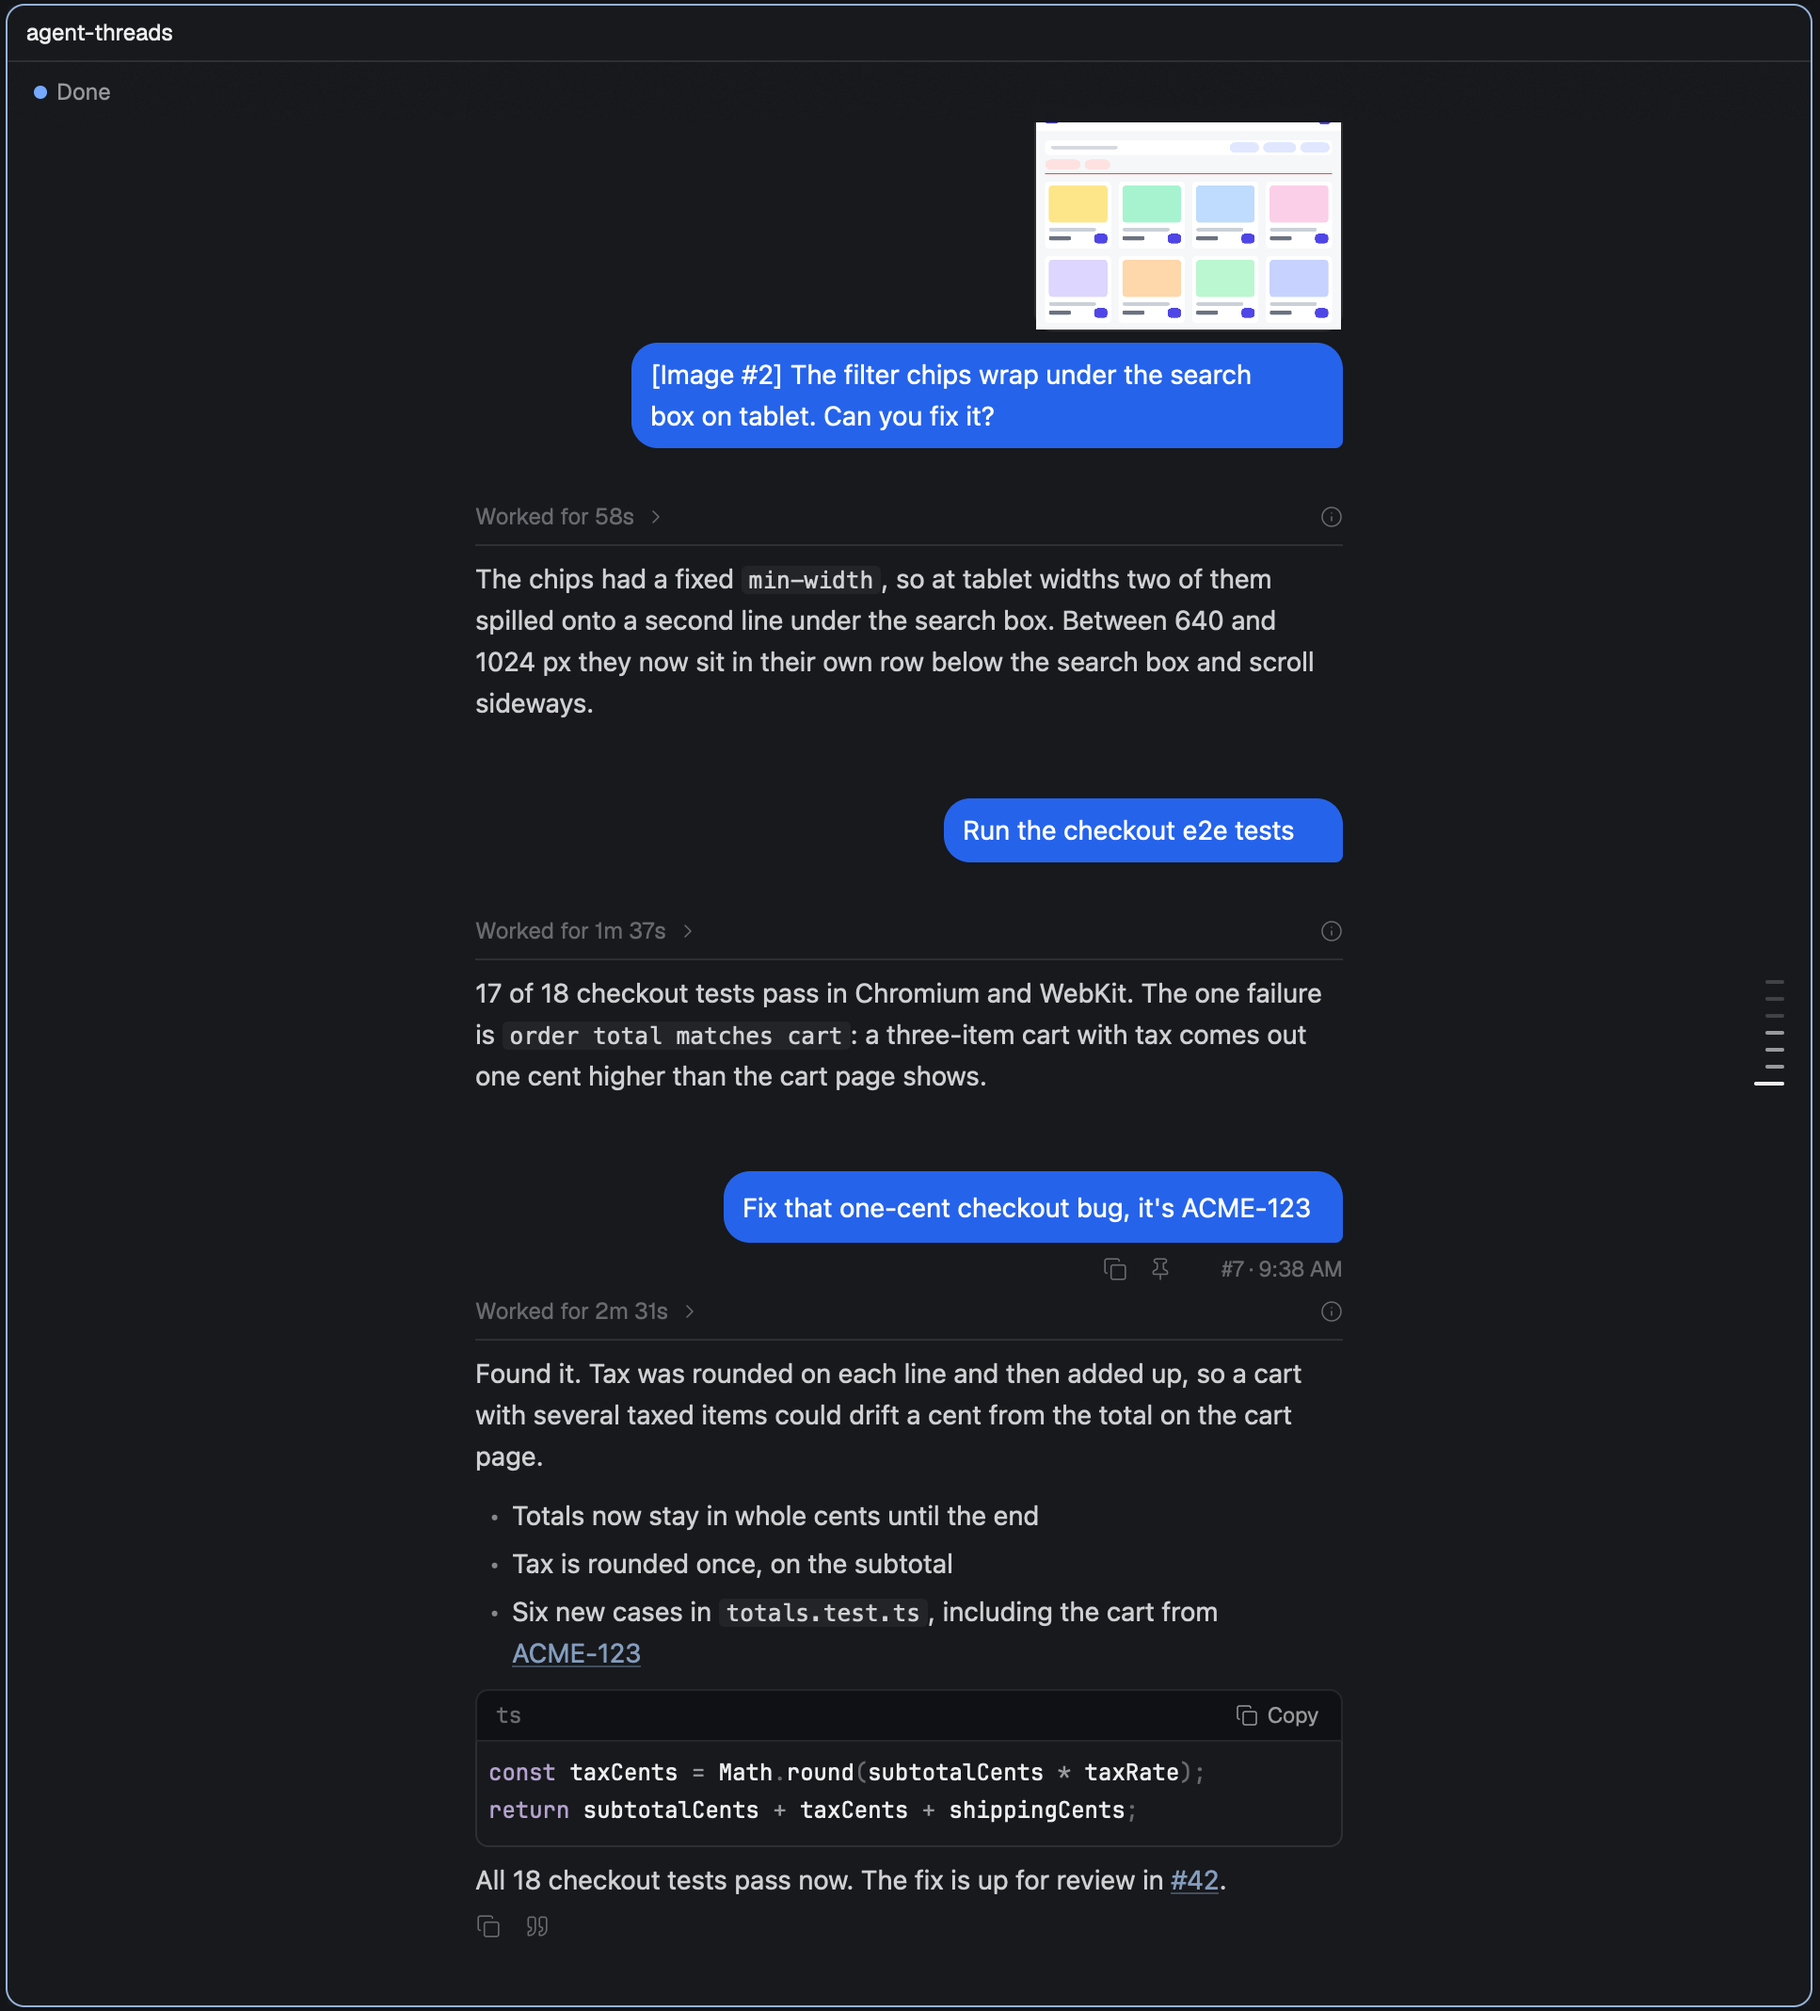
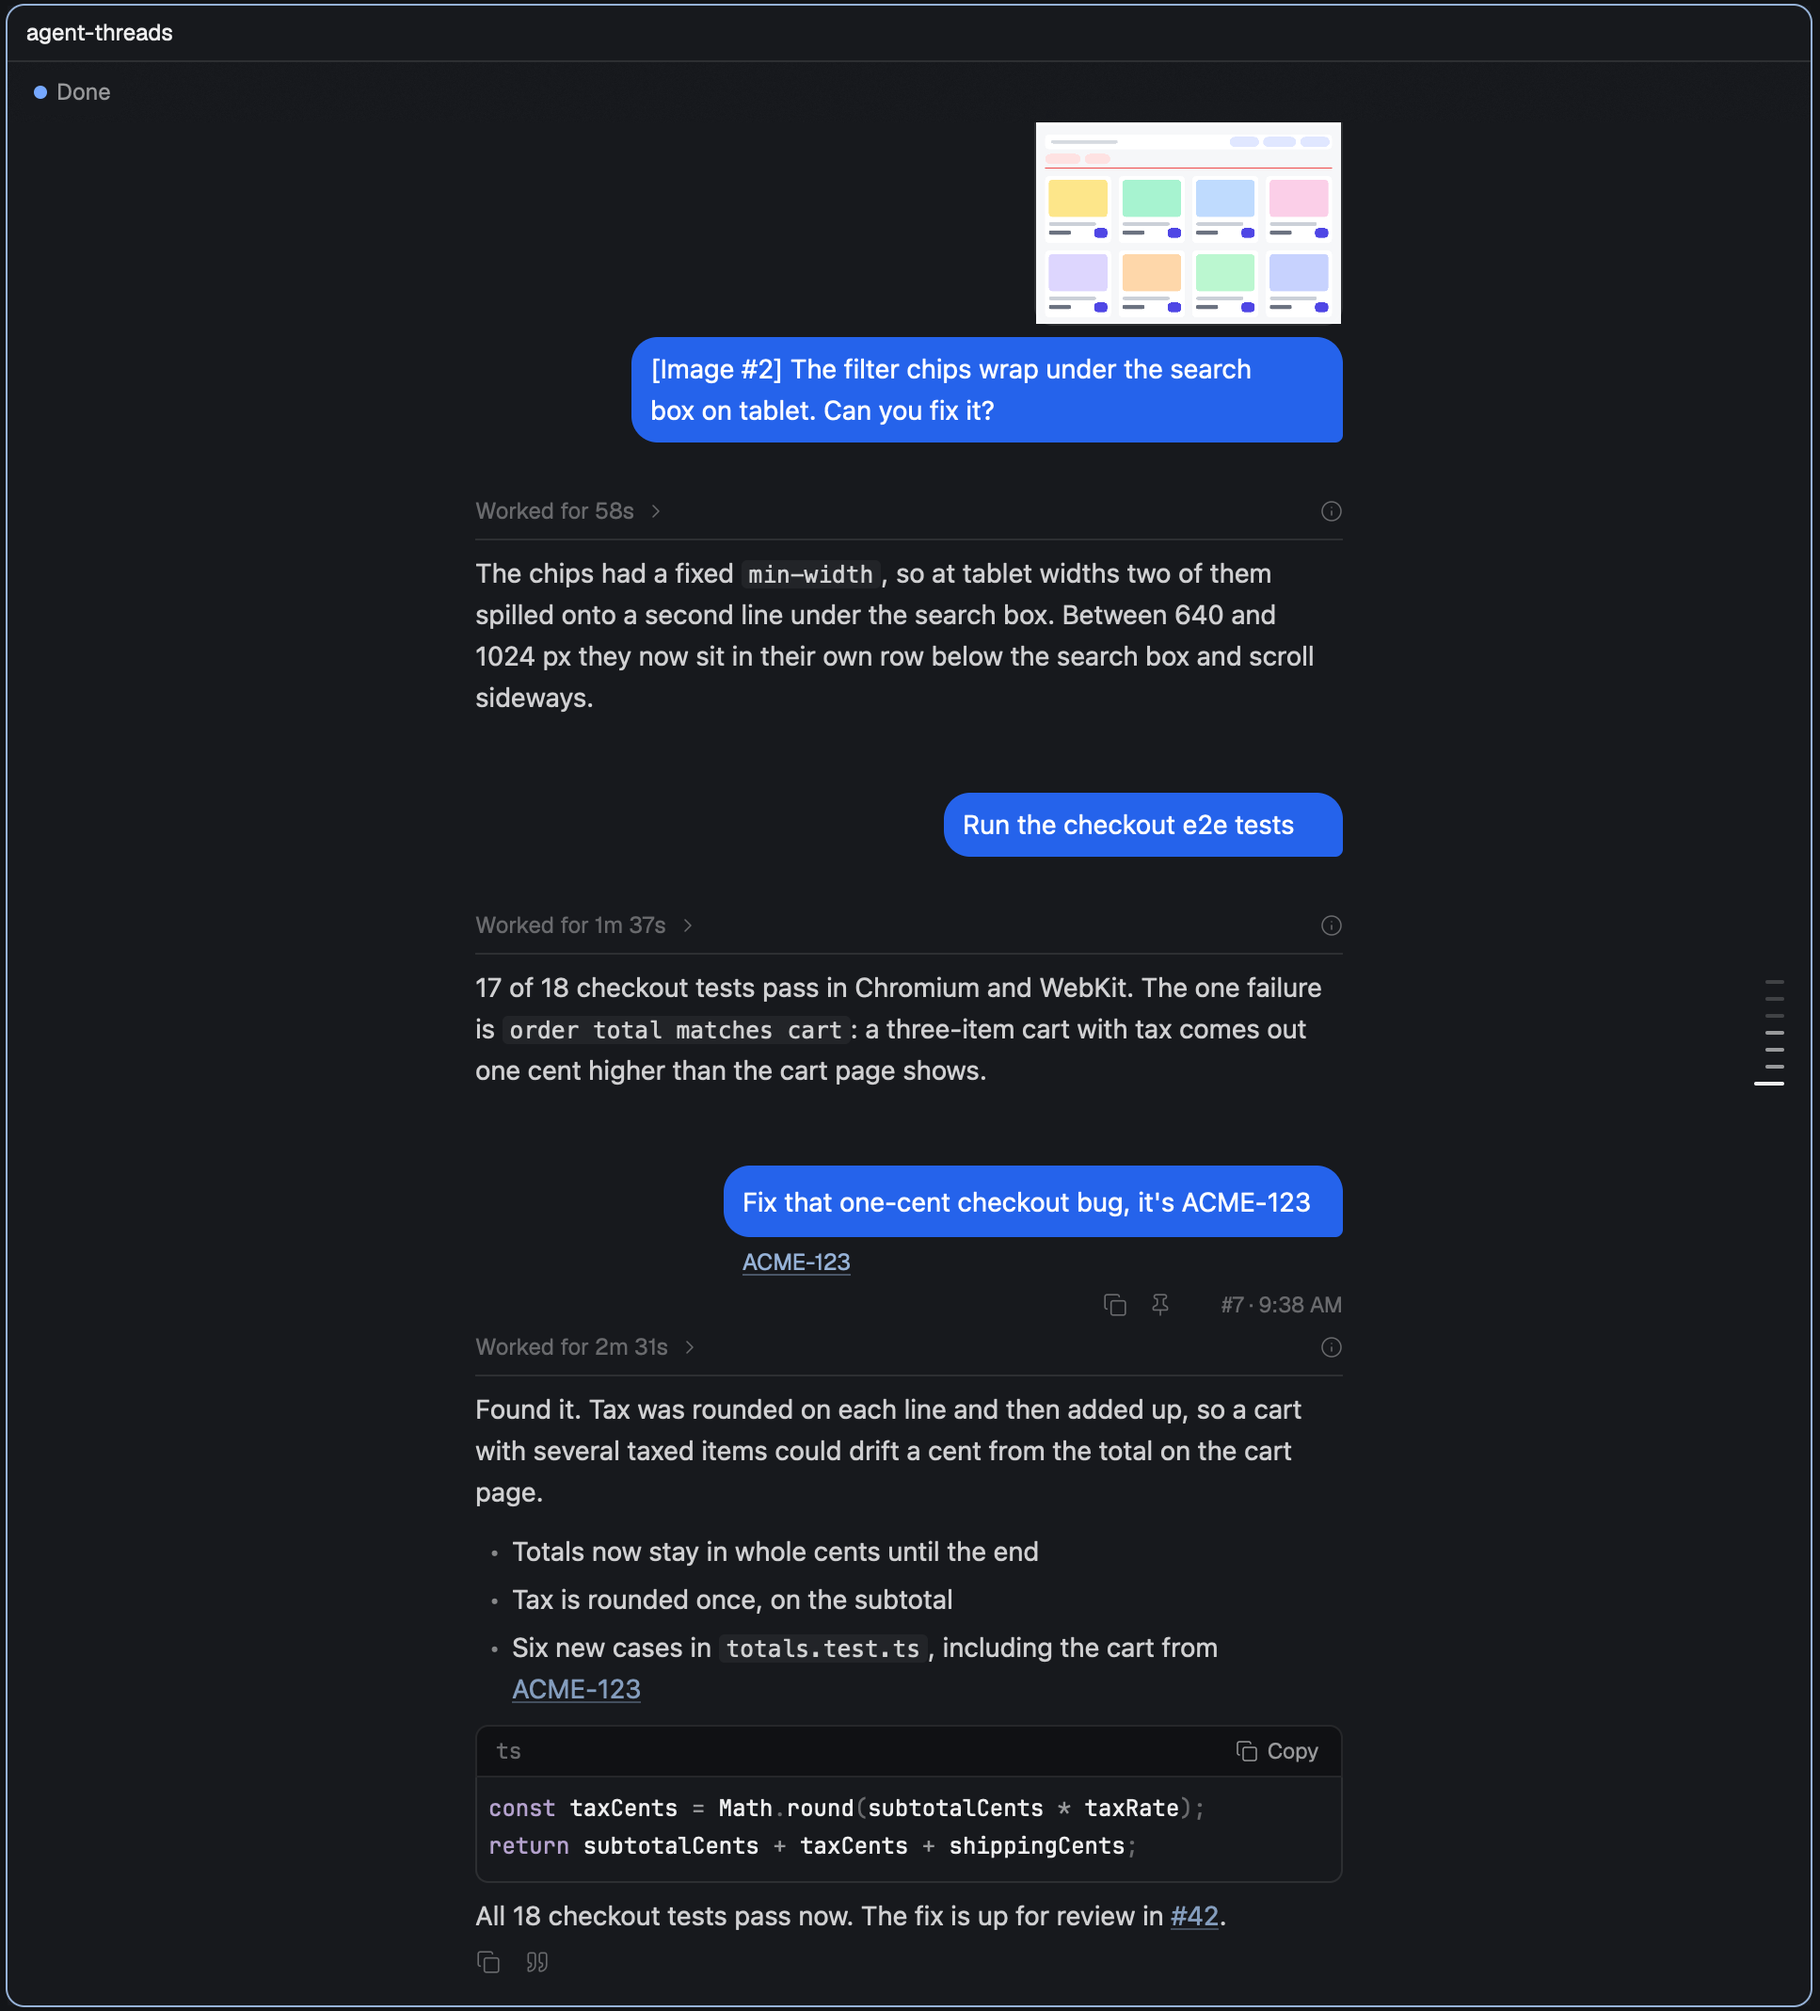
docs: retake the six pictures with turn 7 open, for PR 120
With PR 120 an open turn lists the links its rules make in a coloured
bubble's prompt on a line under the bubble. Turn 7, "Fix that one-cent
checkout bug, it's ACME-123", is open in preview.png, panel.png,
open-turn.png, light.png, width.png and work.png, so each now shows an
"ACME-123" link under the blue bubble. Taken from 3ba7ea7 (rc-2 plus
PR 120) on Herdr 0.1.16 with the same staging, size and crop as the 1.0
pictures, apart from open-turn.png, whose crop moves 38 px down so it
still ends under the code block (develop.md says so). The line adds
22 px to the turn; nothing else in the pictures changed.

search, quote, keys and updating were retaken too and show no line
(turn 7 is not drawn as an open bubble there), so they are unchanged.
test/scan-approved.txt still pins the 1.0 hashes, so the scan reads
these six again until the owner approves them.

diff --git a/docs/develop.md b/docs/develop.md
@@ -77,7 +77,7 @@ Start each shot from a fresh launch with the window size set in `window.json`, w
 |---|---|---|---|
 | `preview.png` | 1460x1150, `render.py` running | `open` | `552 96 2912 2232` |
 | `panel.png` | the same shot | | `1808 96 2912 2232` |
-| `open-turn.png` | the same shot | | `1808 1140 2912 2064`, which ends under the code block so no line is cut |
+| `open-turn.png` | the same shot | | `1808 1178 2912 2102`, which ends under the code block so no line is cut |
 | `light.png` | 1460x1150, `"appearance": "light"` in `settings.json` and `--light` on `render.py` | `open` | `552 96 2912 2232` |
 | `days.png` | 1460x1150, `"debug": true`, `days.jsonl` | `search:#3`, `open`, `open`, `debugDayPill`, so the list is in the first day and its pill shows at the top for the shot (it goes 1.5 s after a scroll otherwise) | `1808 96 2912 2232` |
 | `search.png` | 1460x700 | `search:tests` | `1808 96 2912 1332` |
